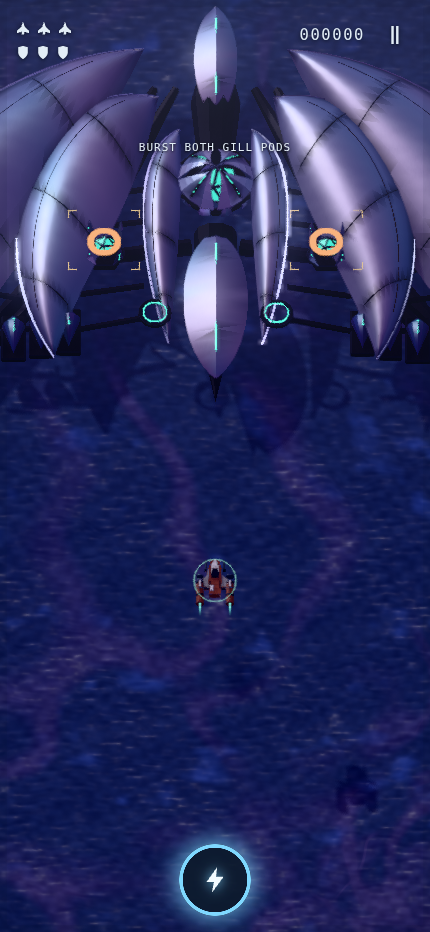
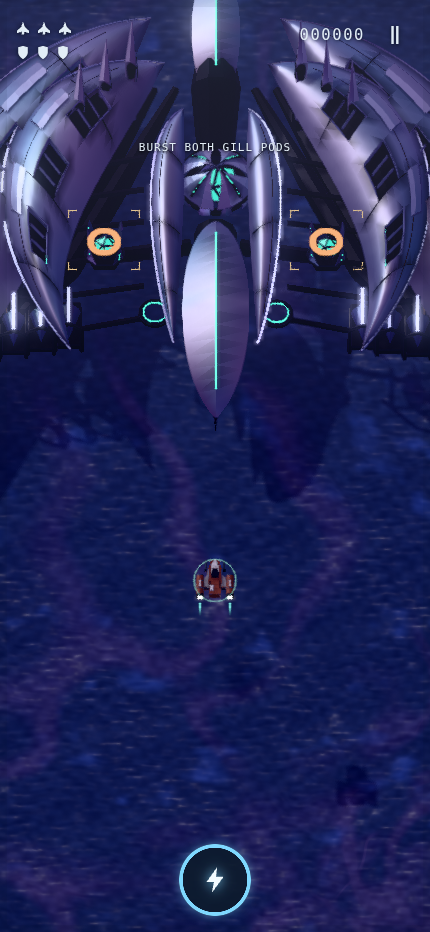
Record verified carrier release and final visual evidence

diff --git a/COORDINATION.md b/COORDINATION.md
@@ -88,3 +88,5 @@ Every remaining dirty file is mine. Tests now target `canvas.flight-canvas`, bec
 **2026-10-19 · Codex / carrier and facility follow-up:** First graphics pass 7472fc5 deployed successfully (Pages run 39205516955); live asset hashes and browser smoke check passed. User requests a more vertical, mechanically detailed VEIL and deeper facilities with a second roughly double-footprint variant. Owning cinematic_assets.py, its VEIL/facility GLBs and previews, facility-view.ts, related fixture/graphics tests, and docs. No combat or save changes. Will verify authored and runtime views, then deploy the next stable increment.
 
 **2026-10-19 · Codex / carrier and facility follow-up · READY:** Longer, taller 25,706-triangle carrier and six detailed facility variants authored/exported through Blender MCP. Larger compounds have 1.89× the area; height compression removed, per-variant spacing and terrain clearings retained. New asset ray checks protect the fixed weak points; placement checks protect roof height and crowded guns. 333 existing unit tests plus two new placement tests passed, final five focused checks passed, full browser 23/23, typecheck/build/diff check passed. Reviewed game captures and seven refreshed Blender previews. Publishing only the explicit follow-up file set, leaving the pre-existing the_veil.py experiment, concept crops and cache untouched. No phone hardware claim.
+
+**2026-10-19 · Codex / four boss reference sheets:** Prior increment f0876c7 is live (Pages 39244037038); all six live model hashes and browser smoke check passed. User supplied new precise sheets for THE VEIL, BASTION-9, HELION ARK and WARDEN-1 and requested all four remodelled as closely as runtime limits allow. Beginning a new Blender-only authoring pass, preserving target/hinge contracts and attacks. Scope: new reference builder, four boss GLBs/material presentation, asset and browser visual checks, previews and docs. Prior facility work is complete. No agents or gameplay changes.

diff --git a/docs/build-status.md b/docs/build-status.md
@@ -7,7 +7,7 @@
 - **Placement:** full-scale geometry replaces vertical squashing. Foundations sink no more than 0.35 units on suitable ground; higher/crowded ground keeps legacy emplacements. Deterministic cosmetic variation selects larger sites where space permits, with per-variant scatter clearings and spacing. No additional enemies, targeting, collisions, progression or save changes.
 - **Validation:** 333 existing unit tests plus two new placement regression tests passed; five focused asset/placement checks also passed after final geometry edits. The full browser suite passed **23/23** (5.2 min), including twelve world/size/quality combinations in the facility case and the VEIL core, overload and wreck. Typecheck, production build and diff whitespace check passed. The existing bundle-size advisory remains (1,073.45 kB JS / 307.43 kB gzip).
 - **Evidence and limits:** refreshed seven Blender previews; game captures cover all three worlds and both compound sizes. Software Chromium/SwiftShader; actual-phone frame rate, heat/battery use and Safari remain unverified. See [docs/22](22-cinematic-art-refinement.md) for budgets and reproduction commands.
-- **Release gate:** publish this validated increment through the existing main → Pages workflow, then compare live asset hashes and smoke-test the published endless launch, steering and pause.
+- **Release:** `f0876c7` deployed successfully in Pages run `39244037038`. Published SHA-256 hashes match all six local GLBs; live endless launch, steering and pause passed in Chromium 156.0.8078.4 with no page/console errors. The deployed JS bundle is `index-CimeIF9L.js`.
 
 ## Reference-led graphics refinement — 19 October 2026
 
